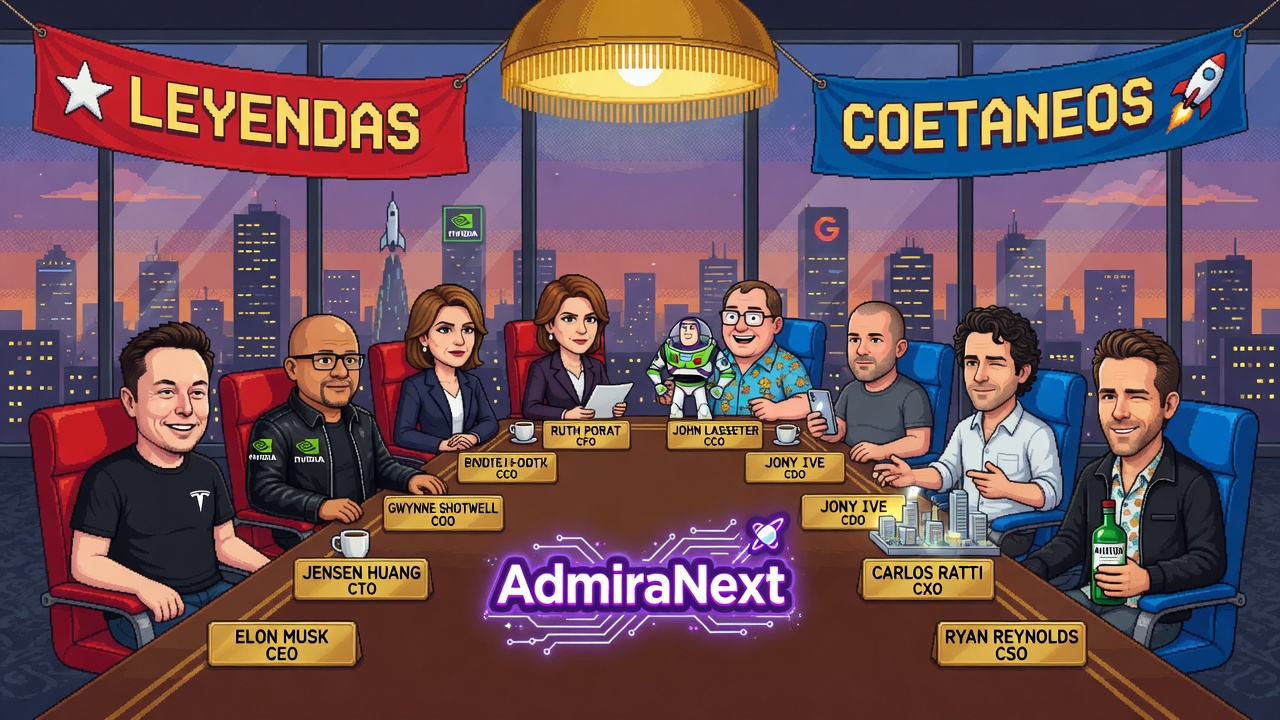
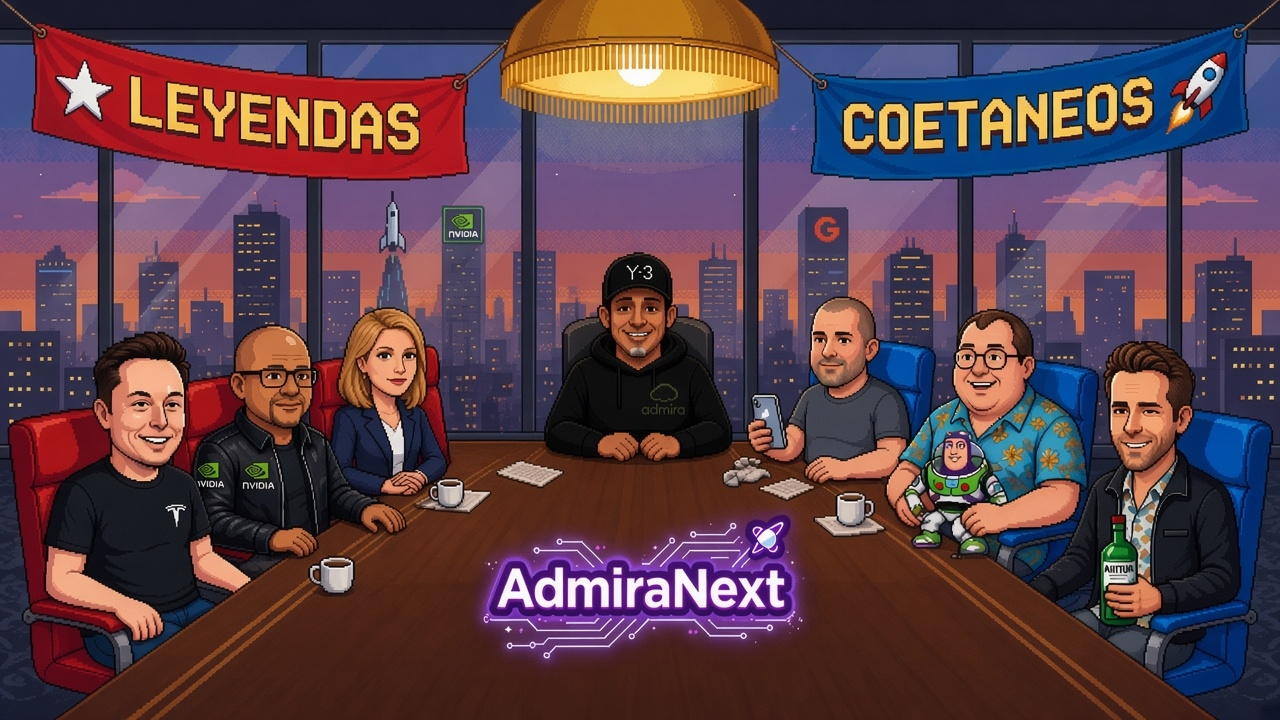
Seat the approved seven-person coetáneos table on the home.
Replace the coetáneos illustration with Carlos's 1280×720 picture and
move nameplates, hitboxes, mouths and face crops onto Elon, Jensen,
Gwynne, Jony, John and Ryan. Ruth Porat and Carlos Ratti stay in the
roster, bots and fichas, with no seat on this picture. Leyendas is unchanged.

Rollback point: 445cf0787559d2ec147fb5a6ea6a5703fcdac0e9

diff --git a/assets/council-silhouettes.js b/assets/council-silhouettes.js
@@ -1,4 +1,4 @@
 /* Siluetas de los consejeros, trazadas sobre el arte de la sala.
    Coordenadas en píxeles de la escena; el SVG usa el viewBox de la imagen
    y escala con ella en cualquier viewport. Generado con u2netp (rembg). */
-window.COUNCIL_SILHOUETTES = {"leyendas":{"width":1360,"height":768,"paths":{"Steve Jobs":"M167 314 L139 311 L121 319 L112 328 L106 341 L111 389 L32 412 L19 422 L23 488 L43 580 L40 608 L47 613 L48 621 L182 621 L183 607 L197 583 L213 565 L223 561 L223 470 L209 448 L191 432 L187 399 L196 369 L185 334 Z","Steve Wozniak":"M283 260 L270 268 L259 284 L258 335 L254 346 L248 350 L251 358 L256 358 L267 368 L272 386 L268 411 L273 429 L278 435 L288 427 L298 428 L301 423 L287 421 L282 417 L282 411 L317 404 L325 397 L323 384 L330 376 L338 377 L346 398 L345 434 L338 450 L319 450 L313 443 L291 442 L280 449 L273 463 L270 484 L285 486 L286 501 L282 507 L291 514 L298 529 L307 533 L308 540 L324 526 L361 529 L373 524 L373 497 L366 501 L360 499 L350 508 L340 505 L336 498 L317 494 L314 489 L322 482 L363 477 L373 472 L373 391 L363 382 L348 357 L334 347 L337 335 L332 309 L335 283 L327 270 L317 261 Z","Tim Cook":"M438 209 L421 212 L406 228 L401 267 L415 284 L410 300 L374 326 L374 475 L418 484 L431 479 L448 479 L467 459 L455 451 L457 446 L471 439 L464 430 L464 419 L448 415 L446 407 L479 408 L487 404 L490 394 L503 388 L509 379 L506 366 L477 317 L453 302 L471 284 L469 240 L461 221 Z","Warren Buffett":"M611 201 L580 205 L559 232 L560 255 L569 282 L535 301 L528 331 L523 337 L523 370 L536 378 L536 389 L549 403 L554 404 L563 398 L568 383 L574 379 L586 381 L597 388 L661 382 L661 375 L676 362 L675 344 L661 323 L651 299 L632 287 L641 252 L640 229 L624 209 Z","Walt Disney":"M773 189 L759 199 L754 213 L757 248 L765 273 L738 290 L727 321 L713 339 L711 358 L723 382 L784 388 L809 379 L819 383 L814 391 L830 420 L829 434 L821 440 L816 451 L792 458 L780 473 L781 485 L767 498 L862 498 L862 314 L846 287 L817 274 L810 261 L818 254 L823 240 L824 217 L820 206 L802 191 Z","Dieter Rams":"M942 211 L923 232 L923 251 L916 258 L935 306 L916 321 L903 349 L906 363 L909 359 L918 359 L922 366 L922 381 L930 389 L912 406 L912 411 L939 419 L939 426 L925 434 L937 439 L944 451 L939 455 L912 458 L934 481 L1012 477 L1018 490 L1013 506 L1019 506 L1019 321 L983 298 L981 288 L994 270 L994 241 L989 229 L964 211 Z","Howard Schultz":"M1107 245 L1078 251 L1069 266 L1068 289 L1073 323 L1083 344 L1054 361 L1036 410 L1030 438 L1039 461 L1033 466 L1020 467 L1020 537 L1155 537 L1155 353 L1142 345 L1133 333 L1142 302 L1140 270 L1131 256 Z","George Lucas":"M1214 328 L1196 349 L1196 382 L1205 432 L1189 442 L1156 486 L1156 563 L1171 578 L1168 601 L1185 621 L1181 637 L1185 652 L1181 659 L1187 659 L1187 653 L1193 647 L1199 653 L1198 659 L1224 659 L1224 636 L1227 622 L1233 616 L1232 599 L1258 594 L1264 598 L1263 609 L1244 616 L1275 626 L1282 622 L1284 614 L1297 612 L1300 622 L1298 647 L1304 659 L1325 659 L1328 614 L1336 607 L1332 594 L1320 588 L1306 588 L1301 584 L1313 549 L1316 478 L1310 463 L1279 433 L1275 424 L1283 409 L1284 355 L1268 334 L1256 328 L1230 324 Z"}},"coetaneos":{"width":1280,"height":720,"paths":{"Elon Musk":"M190 321 L164 321 L158 327 L139 333 L119 357 L124 380 L120 398 L127 414 L136 421 L137 439 L134 443 L95 462 L72 466 L69 471 L61 473 L56 469 L55 459 L47 470 L40 469 L38 447 L32 436 L48 584 L40 601 L50 612 L51 638 L58 660 L248 660 L248 511 L235 510 L218 465 L195 449 L207 426 L214 354 L205 333 Z","Jensen Huang":"M340 317 L314 315 L296 325 L289 337 L288 354 L283 364 L293 383 L288 399 L261 414 L249 426 L251 525 L264 522 L273 505 L295 496 L300 498 L303 506 L317 507 L319 516 L327 517 L335 512 L336 499 L354 487 L356 455 L349 425 L359 421 L351 399 L359 387 L364 356 L359 351 L355 331 Z","Gwynne Shotwell":"M453 284 L441 284 L421 293 L412 306 L408 328 L403 332 L404 447 L426 447 L440 453 L459 446 L451 440 L461 431 L464 414 L457 374 L483 363 L477 351 L488 332 L477 300 L465 288 Z","Ruth Porat":"M579 275 L566 275 L551 282 L542 292 L536 316 L531 320 L540 332 L548 331 L557 341 L555 348 L544 346 L541 355 L531 361 L531 482 L557 479 L557 449 L566 446 L630 447 L627 421 L599 420 L585 407 L594 387 L604 380 L603 328 L609 317 L599 288 Z","John Lasseter":"M747 279 L728 288 L718 314 L725 345 L739 367 L751 374 L754 366 L766 356 L783 327 L781 298 L777 291 L765 281 Z","Jony Ive":"M863 303 L851 314 L848 325 L848 363 L853 380 L835 398 L826 389 L817 390 L807 384 L800 387 L800 394 L807 397 L808 412 L825 410 L834 425 L834 432 L828 438 L851 460 L883 465 L884 480 L874 487 L875 493 L883 493 L892 485 L918 485 L925 481 L933 484 L933 402 L923 387 L896 369 L896 361 L907 347 L902 316 L889 304 Z","Carlos Ratti":"M991 305 L970 310 L953 335 L957 362 L963 370 L966 392 L975 411 L956 426 L944 452 L934 462 L934 498 L940 493 L955 492 L964 493 L967 499 L976 496 L979 509 L993 518 L1018 512 L1024 504 L1038 511 L1053 508 L1062 496 L1062 476 L1054 433 L1019 402 L1036 379 L1041 357 L1037 336 L1029 321 L1019 313 Z","Ryan Reynolds":"M1109 331 L1094 349 L1092 370 L1098 418 L1111 451 L1101 466 L1105 474 L1105 494 L1091 517 L1084 516 L1081 498 L1081 592 L1150 592 L1155 589 L1161 592 L1212 592 L1226 569 L1225 536 L1217 487 L1204 467 L1176 451 L1163 434 L1179 401 L1176 355 L1160 336 L1145 329 Z"}}};
+window.COUNCIL_SILHOUETTES = {"leyendas":{"width":1360,"height":768,"paths":{"Steve Jobs":"M167 314 L139 311 L121 319 L112 328 L106 341 L111 389 L32 412 L19 422 L23 488 L43 580 L40 608 L47 613 L48 621 L182 621 L183 607 L197 583 L213 565 L223 561 L223 470 L209 448 L191 432 L187 399 L196 369 L185 334 Z","Steve Wozniak":"M283 260 L270 268 L259 284 L258 335 L254 346 L248 350 L251 358 L256 358 L267 368 L272 386 L268 411 L273 429 L278 435 L288 427 L298 428 L301 423 L287 421 L282 417 L282 411 L317 404 L325 397 L323 384 L330 376 L338 377 L346 398 L345 434 L338 450 L319 450 L313 443 L291 442 L280 449 L273 463 L270 484 L285 486 L286 501 L282 507 L291 514 L298 529 L307 533 L308 540 L324 526 L361 529 L373 524 L373 497 L366 501 L360 499 L350 508 L340 505 L336 498 L317 494 L314 489 L322 482 L363 477 L373 472 L373 391 L363 382 L348 357 L334 347 L337 335 L332 309 L335 283 L327 270 L317 261 Z","Tim Cook":"M438 209 L421 212 L406 228 L401 267 L415 284 L410 300 L374 326 L374 475 L418 484 L431 479 L448 479 L467 459 L455 451 L457 446 L471 439 L464 430 L464 419 L448 415 L446 407 L479 408 L487 404 L490 394 L503 388 L509 379 L506 366 L477 317 L453 302 L471 284 L469 240 L461 221 Z","Warren Buffett":"M611 201 L580 205 L559 232 L560 255 L569 282 L535 301 L528 331 L523 337 L523 370 L536 378 L536 389 L549 403 L554 404 L563 398 L568 383 L574 379 L586 381 L597 388 L661 382 L661 375 L676 362 L675 344 L661 323 L651 299 L632 287 L641 252 L640 229 L624 209 Z","Walt Disney":"M773 189 L759 199 L754 213 L757 248 L765 273 L738 290 L727 321 L713 339 L711 358 L723 382 L784 388 L809 379 L819 383 L814 391 L830 420 L829 434 L821 440 L816 451 L792 458 L780 473 L781 485 L767 498 L862 498 L862 314 L846 287 L817 274 L810 261 L818 254 L823 240 L824 217 L820 206 L802 191 Z","Dieter Rams":"M942 211 L923 232 L923 251 L916 258 L935 306 L916 321 L903 349 L906 363 L909 359 L918 359 L922 366 L922 381 L930 389 L912 406 L912 411 L939 419 L939 426 L925 434 L937 439 L944 451 L939 455 L912 458 L934 481 L1012 477 L1018 490 L1013 506 L1019 506 L1019 321 L983 298 L981 288 L994 270 L994 241 L989 229 L964 211 Z","Howard Schultz":"M1107 245 L1078 251 L1069 266 L1068 289 L1073 323 L1083 344 L1054 361 L1036 410 L1030 438 L1039 461 L1033 466 L1020 467 L1020 537 L1155 537 L1155 353 L1142 345 L1133 333 L1142 302 L1140 270 L1131 256 Z","George Lucas":"M1214 328 L1196 349 L1196 382 L1205 432 L1189 442 L1156 486 L1156 563 L1171 578 L1168 601 L1185 621 L1181 637 L1185 652 L1181 659 L1187 659 L1187 653 L1193 647 L1199 653 L1198 659 L1224 659 L1224 636 L1227 622 L1233 616 L1232 599 L1258 594 L1264 598 L1263 609 L1244 616 L1275 626 L1282 622 L1284 614 L1297 612 L1300 622 L1298 647 L1304 659 L1325 659 L1328 614 L1336 607 L1332 594 L1320 588 L1306 588 L1301 584 L1313 549 L1316 478 L1310 463 L1279 433 L1275 424 L1283 409 L1284 355 L1268 334 L1256 328 L1230 324 Z"}},"coetaneos":{"width":1280,"height":720,"paths":{"Elon Musk":"M150 346 L102 362 L78 404 L42 472 L24 560 L30 698 L206 704 L224 548 L208 468 L198 400 L184 358 Z","Jensen Huang":"M278 312 L236 342 L218 396 L206 454 L220 532 L348 528 L362 442 L338 392 L326 344 L300 314 Z","Gwynne Shotwell":"M388 300 L340 332 L330 384 L348 432 L366 478 L450 472 L460 412 L436 342 L408 304 Z","Jony Ive":"M842 298 L800 330 L784 384 L742 418 L748 456 L768 498 L908 494 L918 422 L886 350 L856 302 Z","John Lasseter":"M1008 312 L958 342 L938 404 L906 468 L922 562 L1042 548 L1088 500 L1096 422 L1064 352 L1028 316 Z","Ryan Reynolds":"M1160 346 L1104 372 L1088 424 L1076 486 L1098 648 L1246 636 L1266 508 L1248 434 L1224 372 L1186 348 Z","Carlos":"M642 260 L588 286 L558 344 L538 404 L556 470 L720 466 L730 390 L708 302 L678 268 Z"}}};

diff --git a/consejero.html b/consejero.html
@@ -55,6 +55,10 @@
       position:absolute;left:0;bottom:0;right:0;font-size:.42rem;color:var(--amber);
       background:linear-gradient(0deg,rgba(0,0,0,.85),transparent);padding:14px 8px 7px;
     }
+    .portrait-inicial{
+      position:absolute;inset:0;display:flex;align-items:center;justify-content:center;
+      font-family:'Press Start 2P',monospace;font-size:28px;color:#e8c25a;text-shadow:3px 3px 0 #000;
+    }
     .hmeta{display:flex;flex-direction:column;justify-content:center;gap:12px;min-width:0}
     .role-chip{
       display:inline-flex;align-items:center;gap:8px;align-self:flex-start;
@@ -215,7 +219,7 @@
       // coetaneos
       { role:"CEO", roleFull:"Chief Executive Officer", persona:"Elon Musk", side:"racional", gen:"coetaneos", icon:"🏛",
         machine:"MacBook Air 16", member:"Carlos", pair:"CSO", pairPersona:"Ryan Reynolds", alias:"Neo",
-        territory:"Innovación radical y visión de futuro", crop:{l:7,t:44,w:7,h:17},
+        territory:"Innovación radical y visión de futuro", crop:{l:7,t:47.2,w:9.4,h:15.3},
         quote:"Cuando algo es lo bastante importante, lo haces aunque las probabilidades no estén a tu favor.",
         bio:[
           "Es la versión contemporánea de la silla CEO: ambición radical y razonamiento desde primeros principios. En el Consejo representa la voluntad de atacar problemas enormes sin pedir permiso a lo que siempre se ha hecho así.",
@@ -224,7 +228,7 @@
         ] },
       { role:"CTO", roleFull:"Chief Technology Officer", persona:"Jensen Huang", side:"racional", gen:"coetaneos", icon:"⚙",
         machine:"MacBook Pro Negro 14", member:"Carlos Silva", pair:"CCO", pairPersona:"John Lasseter", alias:"Morfeo",
-        territory:"IA, GPUs y plataformas de cómputo", crop:{l:18,t:36,w:8,h:21},
+        territory:"IA, GPUs y plataformas de cómputo", crop:{l:17.8,t:42.5,w:8.6,h:15.3},
         quote:"Cuanto más compras, más ahorras.",
         bio:[
           "Es el CTO de la era de la IA: el que entiende que el cómputo, las GPUs y las plataformas son el cimiento sobre el que se construye todo lo demás. En el Consejo representa que la inteligencia artificial es infraestructura, no un adorno.",
@@ -233,7 +237,7 @@
         ] },
       { role:"COO", roleFull:"Chief Operations Officer", persona:"Gwynne Shotwell", side:"racional", gen:"coetaneos", icon:"📋",
         machine:"MacBook Air Plata", member:"Nines", pair:"CXO", pairPersona:"Carlos Ratti", alias:"Trinity",
-        territory:"Ejecución a escala y logística", crop:{l:31,t:30,w:8,h:24},
+        territory:"Ejecución a escala y logística", crop:{l:26,t:41,w:9,h:14},
         quote:"La visión sin ejecución es alucinación.",
         bio:[
           "Es la maestra de la ejecución a escala: la que convierte lo aparentemente imposible en un calendario que se cumple. En el Consejo representa que la visión sin ejecución es solo una alucinación.",
@@ -242,7 +246,7 @@
         ] },
       { role:"CFO", roleFull:"Chief Financial Officer", persona:"Ruth Porat", side:"racional", gen:"coetaneos", icon:"💰",
         machine:"Mac Mini", member:"Braulio Blanco", pair:"CDO", pairPersona:"Jony Ive", alias:"Oráculo",
-        territory:"Gestión financiera y crecimiento sostenible", crop:{l:43,t:27,w:8,h:26},
+        territory:"Gestión financiera y crecimiento sostenible", crop:null,
         quote:"La disciplina financiera es la que hace posible la ambición.",
         bio:[
           "Es el CFO contemporáneo: crecimiento sostenible y asignación de capital con cabeza en plena era de grandes apuestas tecnológicas. En el Consejo representa que la ambición necesita disciplina para no quemarse.",
@@ -251,7 +255,7 @@
         ] },
       { role:"CCO", roleFull:"Chief Creative Officer", persona:"John Lasseter", side:"creativo", gen:"coetaneos", icon:"💡",
         machine:"MacBook Air Blanco", member:"Cesar", pair:"CTO", pairPersona:"Jensen Huang", alias:"Mouse",
-        territory:"Animación, storytelling y creatividad", crop:{l:55,t:27,w:8,h:26},
+        territory:"Animación, storytelling y creatividad", crop:{l:74,t:42,w:11,h:16},
         quote:"La calidad es el mejor plan de negocio.",
         bio:[
           "Es la creatividad con corazón: animación y narrativa donde la tecnología existe para servir a la emoción, nunca al revés. En el Consejo representa que la historia siempre va por delante del efecto.",
@@ -260,7 +264,7 @@
         ] },
       { role:"CDO", roleFull:"Chief Design Officer", persona:"Jony Ive", side:"creativo", gen:"coetaneos", icon:"🎨",
         machine:"MacBook Air Azul", member:"Consejero", pair:"CFO", pairPersona:"Ruth Porat", alias:"Arquitecto",
-        territory:"Diseño industrial y simplicidad", crop:{l:66,t:31,w:7,h:23},
+        territory:"Diseño industrial y simplicidad", crop:{l:61,t:40.5,w:10,h:14},
         quote:"La simplicidad no es ausencia, es claridad.",
         bio:[
           "Es el diseño industrial llevado a la obsesión: materiales, simplicidad y cuidado por lo invisible. En el Consejo define cómo se ve, se toca y se siente todo lo que lleva la marca Admira.",
@@ -269,7 +273,7 @@
         ] },
       { role:"CXO", roleFull:"Chief Experience Officer", persona:"Carlos Ratti", side:"creativo", gen:"coetaneos", icon:"🧭",
         machine:"AdmiraTwin (PC)", member:"Laboratorio", pair:"COO", pairPersona:"Gwynne Shotwell", alias:"Link",
-        territory:"Ciudades inteligentes y experiencia urbana", crop:{l:77,t:34,w:8,h:21},
+        territory:"Ciudades inteligentes y experiencia urbana", crop:null,
         quote:"El espacio responde a quien lo habita.",
         bio:[
           "Es el arquitecto de espacios sensibles: entornos físicos y urbanos que reaccionan a las personas que los habitan. En el Consejo representa el cruce entre lo digital y lo construido, donde la experiencia ocurre en el mundo real.",
@@ -278,7 +282,7 @@
         ] },
       { role:"CSO", roleFull:"Chief Storytelling Officer", persona:"Ryan Reynolds", side:"creativo", gen:"coetaneos", icon:"📖",
         machine:"MacBook Air Crema", member:"Carla Rosa", pair:"CEO", pairPersona:"Elon Musk", alias:"Cypher",
-        territory:"Marketing viral y narrativa de marca", crop:{l:88,t:41,w:9,h:17},
+        territory:"Marketing viral y narrativa de marca", crop:{l:85,t:47,w:11,h:16},
         quote:"Si haces reír a la gente, te dejan entrar.",
         bio:[
           "Es el narrador viral: marca construida con humor, oportunidad y dominio de la cultura de internet. En el Consejo representa que una buena historia, contada con ingenio, abre todas las puertas.",
@@ -292,6 +296,8 @@
 
     function cropStyle(c){
       // Recorta la cara del consejero desde la imagen de grupo (coords body en % de la imagen).
+      // Ruth y Ratti conservan ficha, pero no están sentados en el arte de coetáneos.
+      if (!c.crop) return "background:#1a1208;";
       const {l,t,w,h} = c.crop;
       const sx = (10000/w).toFixed(1), sy = (10000/h).toFixed(1);
       const px = (l/(100-w)*100).toFixed(2), py = (t/(100-h)*100).toFixed(2);
@@ -333,6 +339,7 @@
 
         <div class="hero">
           <div class="portrait" style="${cropStyle(c)}">
+            ${c.crop ? "" : `<div class="portrait-inicial">${c.persona.split(" ").map(p => p[0]).join("")}</div>`}
             <div class="seat">${c.role} · ${sideLabel}</div>
           </div>
           <div class="hmeta">

diff --git a/app.flt-100529.js b/app.flt-100529.js
@@ -234,16 +234,14 @@
             { role: "CSO", persona: "George Lucas",    x: 92, y: 38, machineId: "admira-macbookaircrema",   body: { left: 88, top: 41, width: 9,  height: 17 } },
         ],
         coetaneos: [
-            // Racional (left/red) — same physical seats, different personas
-            { role: "CEO", persona: "Elon Musk",       x: 11, y: 44, machineId: "admira-macbookair16",      body: { left: 3,  top: 46, width: 18, height: 42 } },
-            { role: "CTO", persona: "Jensen Huang",    x: 22, y: 44, machineId: "admira-macbookpronegro14", body: { left: 16, top: 46, width: 17, height: 40 } },
-            { role: "COO", persona: "Gwynne Shotwell", x: 33, y: 26, machineId: "admira-macbookairplata",   body: { left: 31, top: 30, width: 8,  height: 24 } },
-            { role: "CFO", persona: "Ruth Porat",      x: 45, y: 25, machineId: "admira-macmini",           body: { left: 43, top: 27, width: 8,  height: 26 } },
-            // Creativo (right/blue)
-            { role: "CCO", persona: "John Lasseter",   x: 58, y: 23, machineId: "admira-macbookairluna",  body: { left: 55, top: 27, width: 8,  height: 26 } },
-            { role: "CDO", persona: "Jony Ive",        x: 72, y: 27, machineId: "admira-macbookairazul",    body: { left: 66, top: 31, width: 7,  height: 23 } },
-            { role: "CXO", persona: "Carlos Ratti",    x: 82, y: 32, machineId: "admira-pctwin",            body: { left: 77, top: 34, width: 8,  height: 21 } },
-            { role: "CSO", persona: "Ryan Reynolds",   x: 92, y: 38, machineId: "admira-macbookaircrema",   body: { left: 88, top: 41, width: 9,  height: 17 } },
+            // Arte 20261108: siete personas (Carlos al fondo, sin placa). Ruth Porat y
+            // Carlos Ratti siguen en COUNCIL, fichas y bots; no están sentados en esta mesa.
+            { role: "CEO", persona: "Elon Musk",       x: 12.1, y: 48.1, machineId: "admira-macbookair16",      body: { left: 1.5, top: 48, width: 16, height: 50 } },
+            { role: "CTO", persona: "Jensen Huang",    x: 21.7, y: 43.3, machineId: "admira-macbookpronegro14", body: { left: 16, top: 43, width: 13, height: 32 } },
+            { role: "COO", persona: "Gwynne Shotwell", x: 30.1, y: 41.7, machineId: "admira-macbookairplata",   body: { left: 25.5, top: 41.5, width: 11, height: 26 } },
+            { role: "CDO", persona: "Jony Ive",        x: 65.8, y: 41.4, machineId: "admira-macbookairazul",    body: { left: 59, top: 41, width: 13, height: 29 } },
+            { role: "CCO", persona: "John Lasseter",   x: 78.8, y: 43.3, machineId: "admira-macbookairluna",    body: { left: 70.5, top: 43, width: 16, height: 36 } },
+            { role: "CSO", persona: "Ryan Reynolds",   x: 90.6, y: 48.1, machineId: "admira-macbookaircrema",   body: { left: 84, top: 48, width: 15.5, height: 43 } },
         ],
     };
 
@@ -252,7 +250,7 @@
     // cada una lleva sus coordenadas medidas sobre la cara real de cada consejero.
     const MOUTH_POS = {
         leyendas:  { CEO:[11,53], CTO:[22,43], COO:[33,38], CFO:[44,38], CCO:[57,37], CDO:[70,38], CXO:[80,42], CSO:[90,58] },
-        coetaneos: { CEO:[13,62], CTO:[26,56], COO:[37,47], CFO:[46,47], CCO:[58,49], CDO:[67,51], CXO:[79,52], CSO:[90,58] },
+        coetaneos: { CEO:[12.3,59.7], CTO:[21.9,55.8], COO:[30.1,53.1], CDO:[65.6,50.7], CCO:[78.9,54.2], CSO:[90.2,59.7] },
     };
 
     let machineStatus = {};
@@ -261,7 +259,7 @@
     let currentGen = "leyendas";
     let speakerTurnMap = {};
     let activeLegendPersona = "Steve Jobs";
-    const COUNCIL_IMAGE_VERSION = "20261106-carlos10";
+    const COUNCIL_IMAGE_VERSION = "20261108-coetaneos-siete";
     const LEGEND_MANDATES = {
         "Steve Jobs": {
             short: "foco producto",
@@ -352,6 +350,8 @@
         if (window.CouncilTodo && window.CouncilTodo.isOpen()) {
             window.CouncilTodo.setGeneration(gen, (NAMEPLATE_POS[gen] || []).map(p => ({ persona: p.persona, role: p.role, x: p.x, y: p.y })));
         }
+        // Esta ilustración no trae placas pintadas: al entrar en Coetáneos se muestran las de la interfaz.
+        setNameplatesVisible(gen === "coetaneos");
     }
 
     function renderLegendStrip() {
@@ -664,7 +664,10 @@
                 const title = `Ver ficha de ${p.persona} (${p.role})`;
                 return `<path class="body-hotspot" data-persona="${p.persona}" data-role="${p.role}" d="${d}"><title>${title}</title></path>`;
             }).join("");
-            bhEl.innerHTML = `<svg class="silhouette-svg" viewBox="0 0 ${sil.width} ${sil.height}" preserveAspectRatio="none" aria-hidden="false">${paths}</svg>`;
+            const carlos = currentGen === "coetaneos" && sil.paths.Carlos
+                ? `<path class="body-hotspot" data-persona="Carlos" data-role="" d="${sil.paths.Carlos}"><title>Carlos</title></path>`
+                : "";
+            bhEl.innerHTML = `<svg class="silhouette-svg" viewBox="0 0 ${sil.width} ${sil.height}" preserveAspectRatio="none" aria-hidden="false">${paths}${carlos}</svg>`;
         } else {
             bhEl.innerHTML = plates.map(p => {
                 if (!p.body) return '';
@@ -1539,6 +1542,7 @@
         const bh = e.target.closest('.body-hotspot');
         if (!bh) return;
         const persona = bh.getAttribute('data-persona');
+        if (persona === "Carlos") return;
         if (preguntarMode) { selectAgentByPersona(persona); return; }
         if (currentVerb && currentVerb !== 'preguntar') return; // otros verbos manejan sus propios clics
         openFichaConsejero(persona);   // sin verbo interactivo: clic en el consejo abre su ficha

diff --git a/app.js b/app.js
@@ -234,16 +234,14 @@
             { role: "CSO", persona: "George Lucas",    x: 92, y: 38, machineId: "admira-macbookaircrema",   body: { left: 88, top: 41, width: 9,  height: 17 } },
         ],
         coetaneos: [
-            // Racional (left/red) — same physical seats, different personas
-            { role: "CEO", persona: "Elon Musk",       x: 11, y: 44, machineId: "admira-macbookair16",      body: { left: 3,  top: 46, width: 18, height: 42 } },
-            { role: "CTO", persona: "Jensen Huang",    x: 22, y: 44, machineId: "admira-macbookpronegro14", body: { left: 16, top: 46, width: 17, height: 40 } },
-            { role: "COO", persona: "Gwynne Shotwell", x: 33, y: 26, machineId: "admira-macbookairplata",   body: { left: 31, top: 30, width: 8,  height: 24 } },
-            { role: "CFO", persona: "Ruth Porat",      x: 45, y: 25, machineId: "admira-macmini",           body: { left: 43, top: 27, width: 8,  height: 26 } },
-            // Creativo (right/blue)
-            { role: "CCO", persona: "John Lasseter",   x: 58, y: 23, machineId: "admira-macbookairluna",  body: { left: 55, top: 27, width: 8,  height: 26 } },
-            { role: "CDO", persona: "Jony Ive",        x: 72, y: 27, machineId: "admira-macbookairazul",    body: { left: 66, top: 31, width: 7,  height: 23 } },
-            { role: "CXO", persona: "Carlos Ratti",    x: 82, y: 32, machineId: "admira-pctwin",            body: { left: 77, top: 34, width: 8,  height: 21 } },
-            { role: "CSO", persona: "Ryan Reynolds",   x: 92, y: 38, machineId: "admira-macbookaircrema",   body: { left: 88, top: 41, width: 9,  height: 17 } },
+            // Arte 20261108: siete personas (Carlos al fondo, sin placa). Ruth Porat y
+            // Carlos Ratti siguen en COUNCIL, fichas y bots; no están sentados en esta mesa.
+            { role: "CEO", persona: "Elon Musk",       x: 12.1, y: 48.1, machineId: "admira-macbookair16",      body: { left: 1.5, top: 48, width: 16, height: 50 } },
+            { role: "CTO", persona: "Jensen Huang",    x: 21.7, y: 43.3, machineId: "admira-macbookpronegro14", body: { left: 16, top: 43, width: 13, height: 32 } },
+            { role: "COO", persona: "Gwynne Shotwell", x: 30.1, y: 41.7, machineId: "admira-macbookairplata",   body: { left: 25.5, top: 41.5, width: 11, height: 26 } },
+            { role: "CDO", persona: "Jony Ive",        x: 65.8, y: 41.4, machineId: "admira-macbookairazul",    body: { left: 59, top: 41, width: 13, height: 29 } },
+            { role: "CCO", persona: "John Lasseter",   x: 78.8, y: 43.3, machineId: "admira-macbookairluna",    body: { left: 70.5, top: 43, width: 16, height: 36 } },
+            { role: "CSO", persona: "Ryan Reynolds",   x: 90.6, y: 48.1, machineId: "admira-macbookaircrema",   body: { left: 84, top: 48, width: 15.5, height: 43 } },
         ],
     };
 
@@ -252,7 +250,7 @@
     // cada una lleva sus coordenadas medidas sobre la cara real de cada consejero.
     const MOUTH_POS = {
         leyendas:  { CEO:[11,53], CTO:[22,43], COO:[33,38], CFO:[44,38], CCO:[57,37], CDO:[70,38], CXO:[80,42], CSO:[90,58] },
-        coetaneos: { CEO:[13,62], CTO:[26,56], COO:[37,47], CFO:[46,47], CCO:[58,49], CDO:[67,51], CXO:[79,52], CSO:[90,58] },
+        coetaneos: { CEO:[12.3,59.7], CTO:[21.9,55.8], COO:[30.1,53.1], CDO:[65.6,50.7], CCO:[78.9,54.2], CSO:[90.2,59.7] },
     };
 
     let machineStatus = {};
@@ -261,7 +259,7 @@
     let currentGen = "leyendas";
     let speakerTurnMap = {};
     let activeLegendPersona = "Steve Jobs";
-    const COUNCIL_IMAGE_VERSION = "20260613-r2";
+    const COUNCIL_IMAGE_VERSION = "20261108-coetaneos-siete";
     const LEGEND_MANDATES = {
         "Steve Jobs": {
             short: "foco producto",
@@ -352,6 +350,8 @@
         if (window.CouncilTodo && window.CouncilTodo.isOpen()) {
             window.CouncilTodo.setGeneration(gen, (NAMEPLATE_POS[gen] || []).map(p => ({ persona: p.persona, role: p.role, x: p.x, y: p.y })));
         }
+        // Esta ilustración no trae placas pintadas: al entrar en Coetáneos se muestran las de la interfaz.
+        setNameplatesVisible(gen === "coetaneos");
     }
 
     function renderLegendStrip() {
@@ -664,7 +664,10 @@
                 const title = `Ver ficha de ${p.persona} (${p.role})`;
                 return `<path class="body-hotspot" data-persona="${p.persona}" data-role="${p.role}" d="${d}"><title>${title}</title></path>`;
             }).join("");
-            bhEl.innerHTML = `<svg class="silhouette-svg" viewBox="0 0 ${sil.width} ${sil.height}" preserveAspectRatio="none" aria-hidden="false">${paths}</svg>`;
+            const carlos = currentGen === "coetaneos" && sil.paths.Carlos
+                ? `<path class="body-hotspot" data-persona="Carlos" data-role="" d="${sil.paths.Carlos}"><title>Carlos</title></path>`
+                : "";
+            bhEl.innerHTML = `<svg class="silhouette-svg" viewBox="0 0 ${sil.width} ${sil.height}" preserveAspectRatio="none" aria-hidden="false">${paths}${carlos}</svg>`;
         } else {
             bhEl.innerHTML = plates.map(p => {
                 if (!p.body) return '';
@@ -1535,6 +1538,7 @@
         const bh = e.target.closest('.body-hotspot');
         if (!bh) return;
         const persona = bh.getAttribute('data-persona');
+        if (persona === "Carlos") return;
         if (preguntarMode) { selectAgentByPersona(persona); return; }
         if (currentVerb && currentVerb !== 'preguntar') return; // otros verbos manejan sus propios clics
         openFichaConsejero(persona);   // sin verbo interactivo: clic en el consejo abre su ficha

diff --git a/index.html b/index.html
@@ -3739,7 +3739,7 @@ body.rail-open{overflow:hidden}
 
         <div class="stage-row">
         <div class="council-image" data-generation="leyendas">
-            <img id="council-img" src="assets/council-leyendas.jpg?v=20261106-carlos10" alt="Consejo AdmiraNext" onload="this.closest('.council-image')&&this.closest('.council-image').classList.add('loaded')">
+            <img id="council-img" src="assets/council-leyendas.jpg?v=20261108-coetaneos-siete" alt="Consejo AdmiraNext" onload="this.closest('.council-image')&&this.closest('.council-image').classList.add('loaded')">
             <nav class="council-generation" aria-label="Generación del Consejo">
                 <button type="button" data-council-generation="leyendas" aria-label="Cuadro: cambiar de consejo (Leyendas ↔ Coetáneos)" aria-pressed="true" title="Cambiar de consejo · Leyendas ↔ Coetáneos" data-en-aria-label="Frame: switch council (Legends ↔ Contemporaries)" data-en-title="Switch council · Legends ↔ Contemporaries"><span data-en="★ Legends">★ Leyendas</span></button>
                 <button type="button" data-council-generation="coetaneos" aria-label="Cuadro: cambiar de consejo (Leyendas ↔ Coetáneos)" aria-pressed="false" title="Cambiar de consejo · Leyendas ↔ Coetáneos" data-en-aria-label="Frame: switch council (Legends ↔ Contemporaries)" data-en-title="Switch council · Legends ↔ Contemporaries"><span data-en="🚀 Contemporaries">🚀 Coetáneos</span></button>
@@ -4576,12 +4576,12 @@ body.rail-open{overflow:hidden}
 <link rel="stylesheet" href="council-table.css?v=20260918-r5-desk-cors">
 <link rel="stylesheet" href="council-grokbot.css?v=20261024-r99-ancha">
 <script defer src="council-table.js?v=20260918-r5-desk-cors"></script>
-<script defer src="council-speech.js?v=20260930-flt101302"></script>
+<script defer src="council-speech.js?v=20261108-coetaneos-siete"></script>
 <script defer src="assets/chat-hilo-client.js?v=20261024-r96-sesion"></script>
 <script defer src="council-grokbot.js?v=20261024-r99-ancha"></script>
 <script defer src="council-todo.js?v=20260930-flt101302"></script>
 <script defer src="council-estado.js?v=20261004-5113-anterior"></script>
-<script defer src="assets/council-silhouettes.js?v=20261004-silueta"></script>
+<script defer src="assets/council-silhouettes.js?v=20261108-coetaneos-siete"></script>
 <script defer src="assets/council-recorte.js?v=20261004-recorte1"></script>
 <script defer src="/assets/cli-bilingue.js?v=20261006-r19-bilingue"></script>
 <script defer src="/assets/interface-cli.js?v=20261011-5707-selector2"></script>
@@ -4589,8 +4589,8 @@ body.rail-open{overflow:hidden}
 <script defer src="/assets/cli-ayuda.js?v=20261011-5707-selector"></script>
 <link rel="stylesheet" href="/assets/webcam.css?v=20261014-5863">
 <script defer src="/assets/webcam.js?v=20261014-5863"></script>
-<script defer src="assets/council-presencia.js?v=20261106-presencia1"></script>
-<script defer src="app.flt-100529.js?v=20261106-carlos10"></script>
+<script defer src="assets/council-presencia.js?v=20261108-coetaneos-siete"></script>
+<script defer src="app.flt-100529.js?v=20261108-coetaneos-siete"></script>
 <script defer src="council-preview.js?v=20260921-ultra1"></script>
 <script defer src="council-composer.js?v=20261009-r9-paste"></script>
 <script defer src="council-working.js?v=20260930-flt101302"></script>

diff --git a/archivo.html b/archivo.html
@@ -68,11 +68,12 @@
     const slugify = s => (s||"").toLowerCase().normalize("NFD").replace(/[̀-ͯ]/g,"").replace(/[^a-z0-9]+/g,"-").replace(/^-|-$/g,"");
     const IMG = { leyendas:"assets/council-leyendas.jpg", coetaneos:"assets/council-coetaneos.jpg" };
     const CROP = { CEO:{l:7,t:44,w:7,h:17},CTO:{l:18,t:36,w:8,h:21},COO:{l:31,t:30,w:8,h:24},CFO:{l:43,t:27,w:8,h:26},CCO:{l:55,t:27,w:8,h:26},CDO:{l:66,t:31,w:7,h:23},CXO:{l:77,t:34,w:8,h:21},CSO:{l:88,t:41,w:9,h:17} };
+    const CROP_COET = { "Elon Musk":{l:7,t:47.2,w:9.4,h:15.3}, "Jensen Huang":{l:17.8,t:42.5,w:8.6,h:15.3}, "Gwynne Shotwell":{l:26,t:41,w:9,h:14}, "Jony Ive":{l:61,t:40.5,w:10,h:14}, "John Lasseter":{l:74,t:42,w:11,h:16}, "Ryan Reynolds":{l:85,t:47,w:11,h:16} };
     const R=[["CEO","Steve Jobs","leyendas"],["CTO","Steve Wozniak","leyendas"],["COO","Tim Cook","leyendas"],["CFO","Warren Buffett","leyendas"],["CCO","Walt Disney","leyendas"],["CDO","Dieter Rams","leyendas"],["CXO","Howard Schultz","leyendas"],["CSO","George Lucas","leyendas"],["CEO","Elon Musk","coetaneos"],["CTO","Jensen Huang","coetaneos"],["COO","Gwynne Shotwell","coetaneos"],["CFO","Ruth Porat","coetaneos"],["CCO","John Lasseter","coetaneos"],["CDO","Jony Ive","coetaneos"],["CXO","Carlos Ratti","coetaneos"],["CSO","Ryan Reynolds","coetaneos"]];
     const ICON={CEO:"🏛",CTO:"⚙",COO:"📋",CFO:"💰",CCO:"💡",CDO:"🎨",CXO:"🧭",CSO:"📖"};
-    const BYPERS={}; R.forEach(x=>BYPERS[x[1]]={role:x[0],persona:x[1],gen:x[2],icon:ICON[x[0]],crop:CROP[x[0]]});
+    const BYPERS={}; R.forEach(x=>BYPERS[x[1]]={role:x[0],persona:x[1],gen:x[2],icon:ICON[x[0]],crop:x[2]==="coetaneos"?(CROP_COET[x[1]]||null):CROP[x[0]]});
     const PALETTE=["#3498db","#e0a92c","#9b59b6","#2ecc71","#e74c3c","#1abc9c"];
-    function cropStyle(c){ if(!c) return "background:#222"; const {l,t,w,h}=c.crop,sx=(10000/w).toFixed(1),sy=(10000/h).toFixed(1),px=(l/(100-w)*100).toFixed(2),py=(t/(100-h)*100).toFixed(2);
+    function cropStyle(c){ if(!c||!c.crop) return "background:#1a1208"; const {l,t,w,h}=c.crop,sx=(10000/w).toFixed(1),sy=(10000/h).toFixed(1),px=(l/(100-w)*100).toFixed(2),py=(t/(100-h)*100).toFixed(2);
       return `background-image:url('${IMG[c.gen]}');background-size:${sx}% ${sy}%;background-position:${px}% ${py}%;`; }
     const esc=s=>String(s==null?"":s).replace(/[<>&]/g,x=>({"<":"&lt;",">":"&gt;","&":"&amp;"}[x]));
     function fdate(ts){ try{ return new Date(ts*1000).toLocaleString("es-ES",{day:"2-digit",month:"short",hour:"2-digit",minute:"2-digit"}); }catch(e){ return ""; } }

diff --git a/reunion.html b/reunion.html
@@ -137,6 +137,11 @@
       CEO:{l:7,t:44,w:7,h:17}, CTO:{l:18,t:36,w:8,h:21}, COO:{l:31,t:30,w:8,h:24}, CFO:{l:43,t:27,w:8,h:26},
       CCO:{l:55,t:27,w:8,h:26}, CDO:{l:66,t:31,w:7,h:23}, CXO:{l:77,t:34,w:8,h:21}, CSO:{l:88,t:41,w:9,h:17}
     };
+    const CROP_COET = {
+      "Elon Musk":{l:7,t:47.2,w:9.4,h:15.3}, "Jensen Huang":{l:17.8,t:42.5,w:8.6,h:15.3},
+      "Gwynne Shotwell":{l:26,t:41,w:9,h:14}, "Jony Ive":{l:61,t:40.5,w:10,h:14},
+      "John Lasseter":{l:74,t:42,w:11,h:16}, "Ryan Reynolds":{l:85,t:47,w:11,h:16}
+    };
     const R = [
       ["CEO","Chief Executive Officer","Steve Jobs","racional","leyendas"],
       ["CTO","Chief Technology Officer","Steve Wozniak","racional","leyendas"],
@@ -156,11 +161,12 @@
       ["CSO","Chief Storytelling Officer","Ryan Reynolds","creativo","coetaneos"],
     ];
     const ICON = {CEO:"🏛",CTO:"⚙",COO:"📋",CFO:"💰",CCO:"💡",CDO:"🎨",CXO:"🧭",CSO:"📖"};
-    const COUNCIL = R.map(x=>({role:x[0],roleFull:x[1],persona:x[2],side:x[3],gen:x[4],icon:ICON[x[0]],slug:slugify(x[2]),crop:CROP[x[0]]}));
+    const COUNCIL = R.map(x=>({role:x[0],roleFull:x[1],persona:x[2],side:x[3],gen:x[4],icon:ICON[x[0]],slug:slugify(x[2]),crop:x[4]==="coetaneos"?(CROP_COET[x[2]]||null):CROP[x[0]]}));
     const PALETTE = ["#3498db","#e0a92c","#9b59b6","#2ecc71","#e74c3c"];
     const MAXP = 5;
 
     function cropStyle(c){
+      if(!c.crop) return "background:#1a1208;";
       const {l,t,w,h}=c.crop, sx=(10000/w).toFixed(1), sy=(10000/h).toFixed(1),
         px=(l/(100-w)*100).toFixed(2), py=(t/(100-h)*100).toFixed(2);
       return `background-image:url('${IMG[c.gen]}');background-size:${sx}% ${sy}%;background-position:${px}% ${py}%;`;

diff --git a/sala.html b/sala.html
@@ -123,6 +123,11 @@
       CEO:{l:7,t:44,w:7,h:17}, CTO:{l:18,t:36,w:8,h:21}, COO:{l:31,t:30,w:8,h:24}, CFO:{l:43,t:27,w:8,h:26},
       CCO:{l:55,t:27,w:8,h:26}, CDO:{l:66,t:31,w:7,h:23}, CXO:{l:77,t:34,w:8,h:21}, CSO:{l:88,t:41,w:9,h:17}
     };
+    const CROP_COET = {
+      "Elon Musk":{l:7,t:47.2,w:9.4,h:15.3}, "Jensen Huang":{l:17.8,t:42.5,w:8.6,h:15.3},
+      "Gwynne Shotwell":{l:26,t:41,w:9,h:14}, "Jony Ive":{l:61,t:40.5,w:10,h:14},
+      "John Lasseter":{l:74,t:42,w:11,h:16}, "Ryan Reynolds":{l:85,t:47,w:11,h:16}
+    };
     const R = [
       ["CEO","Chief Executive Officer","Steve Jobs","racional","leyendas"],
       ["CTO","Chief Technology Officer","Steve Wozniak","racional","leyendas"],
@@ -143,9 +148,10 @@
     ];
     const ICON = {CEO:"🏛",CTO:"⚙",COO:"📋",CFO:"💰",CCO:"💡",CDO:"🎨",CXO:"🧭",CSO:"📖"};
     const RL = {codex:"Codex",claude:"Claude",opencode:"OpenCode"};
-    const COUNCIL = R.map(x=>({role:x[0],roleFull:x[1],persona:x[2],side:x[3],gen:x[4],icon:ICON[x[0]],slug:slugify(x[2]),crop:CROP[x[0]]}));
+    const COUNCIL = R.map(x=>({role:x[0],roleFull:x[1],persona:x[2],side:x[3],gen:x[4],icon:ICON[x[0]],slug:slugify(x[2]),crop:x[4]==="coetaneos"?(CROP_COET[x[2]]||null):CROP[x[0]]}));
 
     function cropStyle(c){
+      if(!c.crop) return "background:#1a1208;";
       const {l,t,w,h}=c.crop, sx=(10000/w).toFixed(1), sy=(10000/h).toFixed(1),
         px=(l/(100-w)*100).toFixed(2), py=(t/(100-h)*100).toFixed(2);
       return `background-image:url('${IMG[c.gen]}');background-size:${sx}% ${sy}%;background-position:${px}% ${py}%;`;

diff --git a/assets/council-presencia.js b/assets/council-presencia.js
@@ -5,7 +5,7 @@
 (function (root) {
   'use strict';
   var KEY = 'admira:consejo-presencia';
-  var ASSET_V = '20261106-presencia1';
+  var ASSET_V = '20261108-coetaneos-siete';
   var GENS = {
     leyendas: [
       ['Steve Jobs', 'CEO', 'racional', ['jobs', 'steve jobs', 'steve-jobs']],
@@ -139,6 +139,9 @@
     cargarMeta().then(function (m) {
       if (genVista !== gen || !m || !m[gen]) return;
       var g = m[gen], W = g.width, H = g.height;
+      // El arte nuevo de Coetáneos no tiene placa de sillas vacías a su medida.
+      // Pintar los recortes viejos devolvería a Ruth, a Ratti y los asientos anteriores.
+      if (g.sinPlaca) { el.style.display = 'none'; el.innerHTML = ''; return; }
       var html = '<img alt="" src="' + base() + gen + '.jpg?v=' + ASSET_V + '" style="position:absolute;left:0;top:0;width:100%;height:100%;image-rendering:pixelated">';
       Object.keys(g.cutouts).forEach(function (p) {
         var vis = p === 'Carlos' ? estado.carlosVisible() : estado.visible(gen, p);

diff --git a/council-speech.js b/council-speech.js
@@ -8,8 +8,8 @@
 
     // Image pixels, never viewport pixels; the renderer scales both.
     // Leyendas: measured on assets/council-leyendas.jpg (1360×768).
-    // Coetáneos: measured on assets/council-coetaneos.jpg (1280×720).
-    // Elon Musk lip centre ≈ (181, 427), lip box ≈ 32×10.
+    // Coetáneos: measured on assets/council-coetaneos.jpg (1280×720), arte de siete.
+    // Elon Musk lip centre ≈ (158, 430), lip box ≈ 34×12.
     const SOURCE = Object.freeze({
         leyendas: /council-leyendas\.(?:jpg|jpeg|png)(?:[?#]|$)/i,
         coetaneos: /council-coetaneos\./i
@@ -30,7 +30,7 @@
             'George Lucas':   Object.freeze({ x: 1223, y: 416, width: 25, height: 11, opening: 1.5 })
         }),
         coetaneos: Object.freeze({
-            'Elon Musk': Object.freeze({ x: 181, y: 427, width: 32, height: 10, opening: 1.5 })
+            'Elon Musk': Object.freeze({ x: 158, y: 430, width: 34, height: 12, opening: 1.5 })
         })
     });
     function sceneFor(source) {
